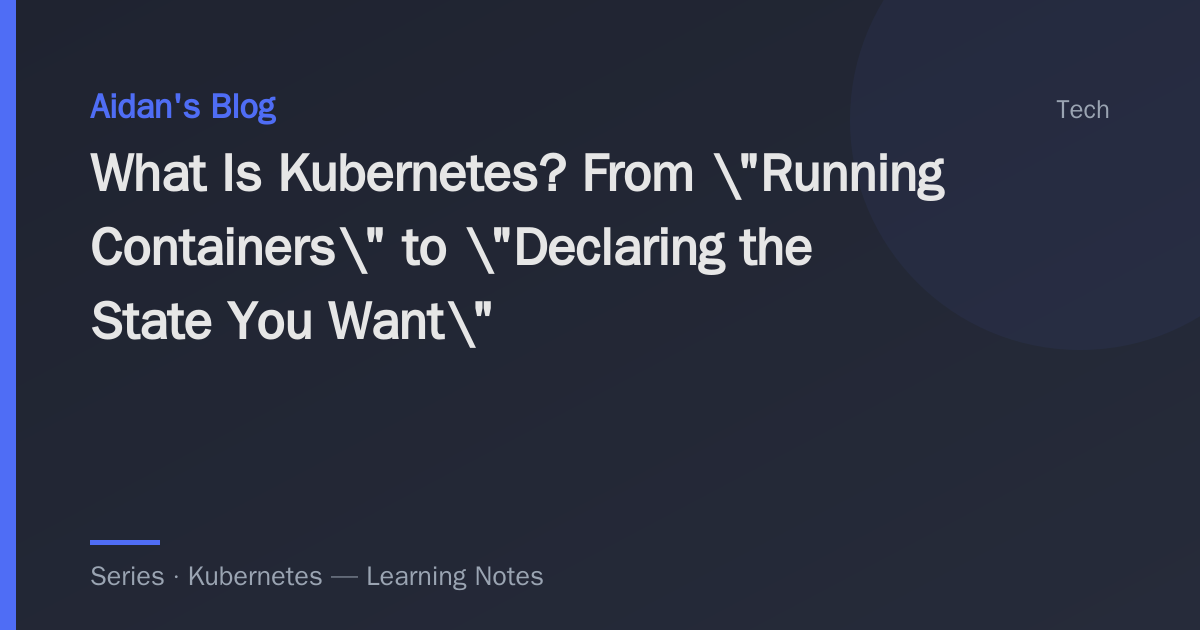
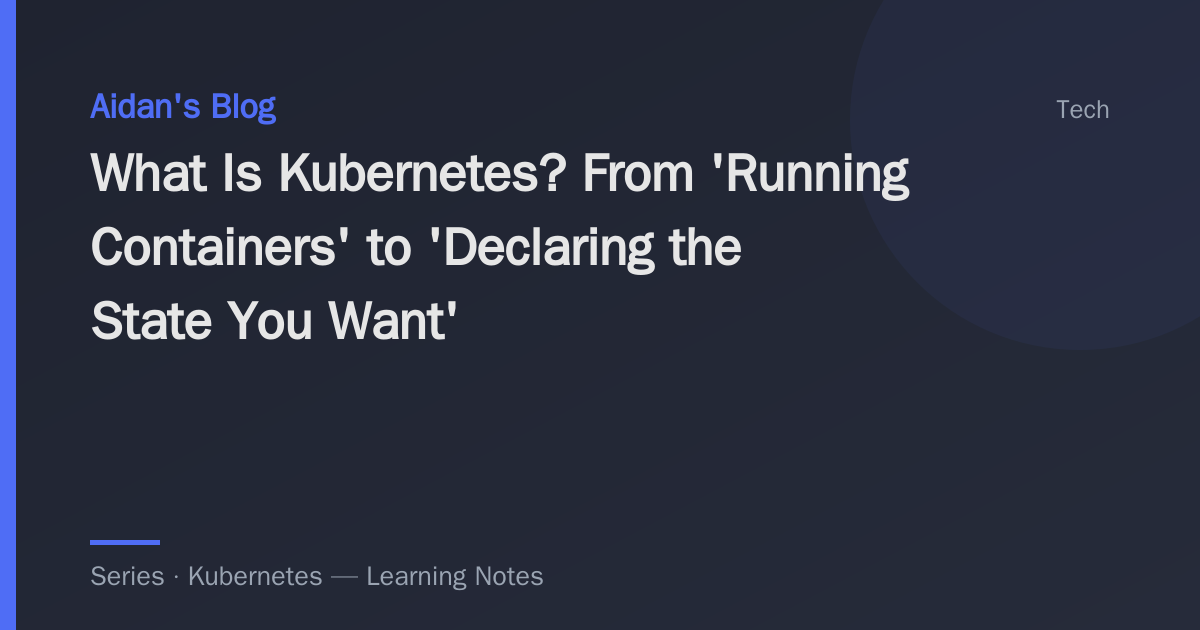
Use single quotes in the k8s-intro English title so the OG card renders cleanly
Claude-Session: https://claude.ai/code/session_01HNr2b3q1MjNhRiDCmNnmup

Changed region(s): [[0.2775, 0.3619, 0.6783, 0.4524], [0.5858, 0.2413, 0.8017, 0.3317], [0.37, 0.4825, 0.4317, 0.5429]]

diff --git a/src/content/blog/en/k8s-intro.md b/src/content/blog/en/k8s-intro.md
@@ -1,5 +1,5 @@
 ---
-title: "What Is Kubernetes? From \"Running Containers\" to \"Declaring the State You Want\""
+title: "What Is Kubernetes? From 'Running Containers' to 'Declaring the State You Want'"
 date: 2026-07-06
 category: tech
 description: "K8s is hard to learn, usually because people memorise the API before the concept. This post starts from the beginning: what problem it actually solves, and the one core idea that ties everything together — a declared desired state plus a reconcile loop. This is the foundation of the whole series."
